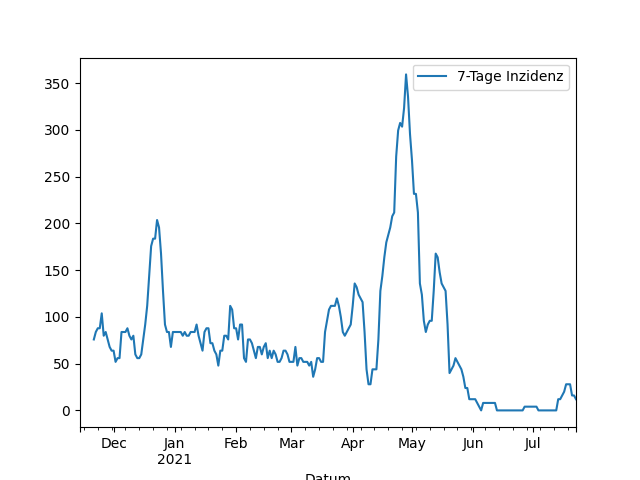
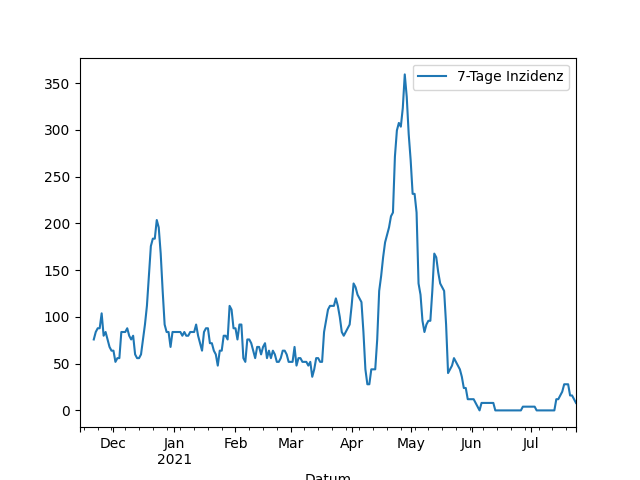
Update images

diff --git a/_includes/aktuelle_inzidenz.md b/_includes/aktuelle_inzidenz.md
@@ -1,1 +1,1 @@
-12,0
+8,0
